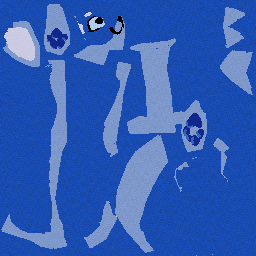
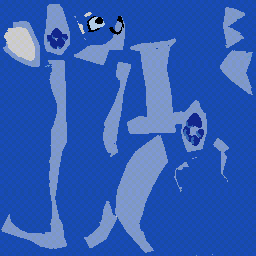
ADDED/DEBUGGING
> added more color functionality
> debugging Shader's random function which seems to not be as random as I initially thought

diff --git a/test/App.java b/test/App.java
@@ -8,37 +8,52 @@ public final class App {
     public static void MakeFuzzyTexture( ) {
         QTexture tex = new QTexture(System.getProperty("user.dir") + "\\resources\\Mascot256.png");
         
-        QSampleable.ColorProcessFunction mapping = new QSampleable.ColorProcessFunction() {
-            public int mapFunc(int col) {
+        QSampleable.ColorMapSpacialFunction mapping = new QSampleable.ColorMapSpacialFunction() {
+            public int mapFunc(int col, int x, int y) {
                 QColor color = new QColor(col);
                 
                 // main blue
                 if (color.equalsIgnoreAlpha(25, 76, 178)) {
-                    float randVal = (QShader.random() * 2.0f) - 1.0f;
-                    color = QShader.multiplyColor(color, 1.0f + randVal * 0.09f);
+                    float randVal = (QShader.seededRandom(x + y * tex.getWidth()) * 2.0f) - 1.0f;
+                    color = QShader.multiplyColor(
+                        color, 
+                        1.0f,
+                        1.0f,
+                        1.0f + randVal * 0.09f
+                    );
                 }
 
                 // secondary blue
                 if (color.equalsIgnoreAlpha(127, 153, 204)) {
-                    float randVal = (QShader.random() * 2.0f) - 1.0f;
-                    color = QShader.multiplyColor(color, 1.0f + randVal * 0.05f);
+                    float randVal = (QShader.seededRandom(x + y * tex.getWidth()) * 2.0f) - 1.0f;
+                    color = QShader.multiplyColor(
+                        color, 
+                        1.0f,
+                        1.0f,
+                        1.0f + randVal * 0.09f
+                    );
                 }
 
                 // tertiary blue
                 if (color.equalsIgnoreAlpha(204, 204, 229)) {
-                    float randVal = (QShader.random() * 2.0f) - 1.0f;
-                    color = QShader.multiplyColor(color, 1.0f + randVal * 0.02f);
+                    float randVal = (QShader.seededRandom(x + y * tex.getWidth()) * 2.0f) - 1.0f;
+                    color = QShader.multiplyColor(
+                        color,
+                        1.0f,
+                        1.0f,
+                        0.9f + randVal * 0.09f
+                    );
                 }
 
                 return color.toInt();
             }
         };
 
-        tex.mapColor(mapping);
+        tex.mapColorSpacial(mapping);
         tex.save(System.getProperty("user.dir") + "\\resources\\MascotFuzzy256.png");
     }
 
     public static void main(String[] args) {
-        
+        MakeFuzzyTexture( );
     }
 }

diff --git a/src/QDraw/QSampleable.java b/src/QDraw/QSampleable.java
@@ -13,16 +13,28 @@ public abstract class QSampleable {
 
     /////////////////////////////////////////////////////////////////
     // PUBLIC INTERFACES
-    public static interface ColorProcessFunction {
+    public static interface ColorMapFunction {
         public int mapFunc(int colorIn);
+    }
+
+    public static interface ColorMapSpacialFunction {
+        public int mapFunc(int colorIn, int x, int y);
     }
 
     /////////////////////////////////////////////////////////////////
     // PUBLIC METHODS
-    public void mapColor(ColorProcessFunction cpf) {
+    public void mapColor(ColorMapFunction cpf) {
         for (int mapX = 0; mapX < getWidth(); mapX++) {
             for (int mapY = 0; mapY < getHeight(); mapY++) {
                 setColor(mapX, mapY, cpf.mapFunc(getColor(mapX, mapY)));
+            }
+        }
+    }
+
+    public void mapColorSpacial(ColorMapSpacialFunction cpsf) {
+        for (int mapX = 0; mapX < getWidth(); mapX++) {
+            for (int mapY = 0; mapY < getHeight(); mapY++) {
+                setColor(mapX, mapY, cpsf.mapFunc(getColor(mapX, mapY), mapX, mapY));
             }
         }
     }

diff --git a/src/QDraw/QShader.java b/src/QDraw/QShader.java
@@ -61,6 +61,17 @@ public abstract class QShader {
         );
     }
 
+    public static QColor multiplyColor(QColor color, float facR, float facG, float facB) {
+        int iFacR = (int)(facR * 255.0f);
+        int iFacG = (int)(facG * 255.0f);
+        int iFacB = (int)(facB * 255.0f);
+        return new QColor(
+            (color.getR() * iFacR) >>> 8,
+            (color.getG() * iFacG) >>> 8,
+            (color.getB() * iFacB) >>> 8
+        );
+    }
+
     public static QColor sampleTexture(
         float u,
         float v,
